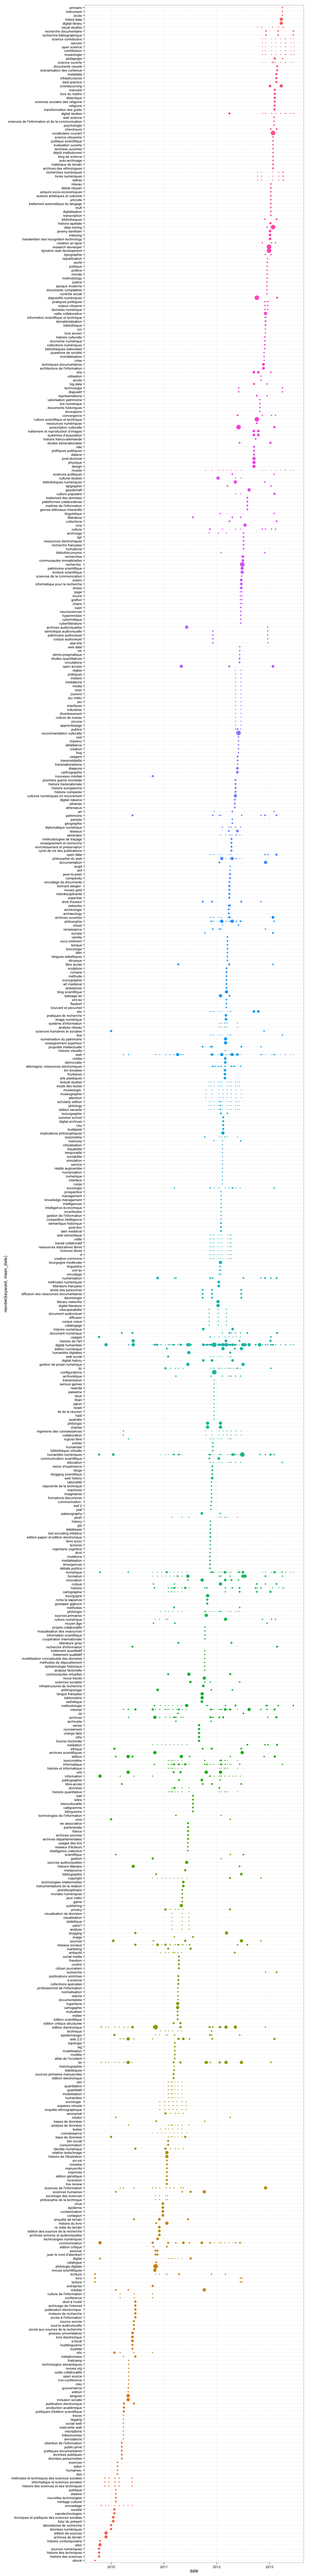
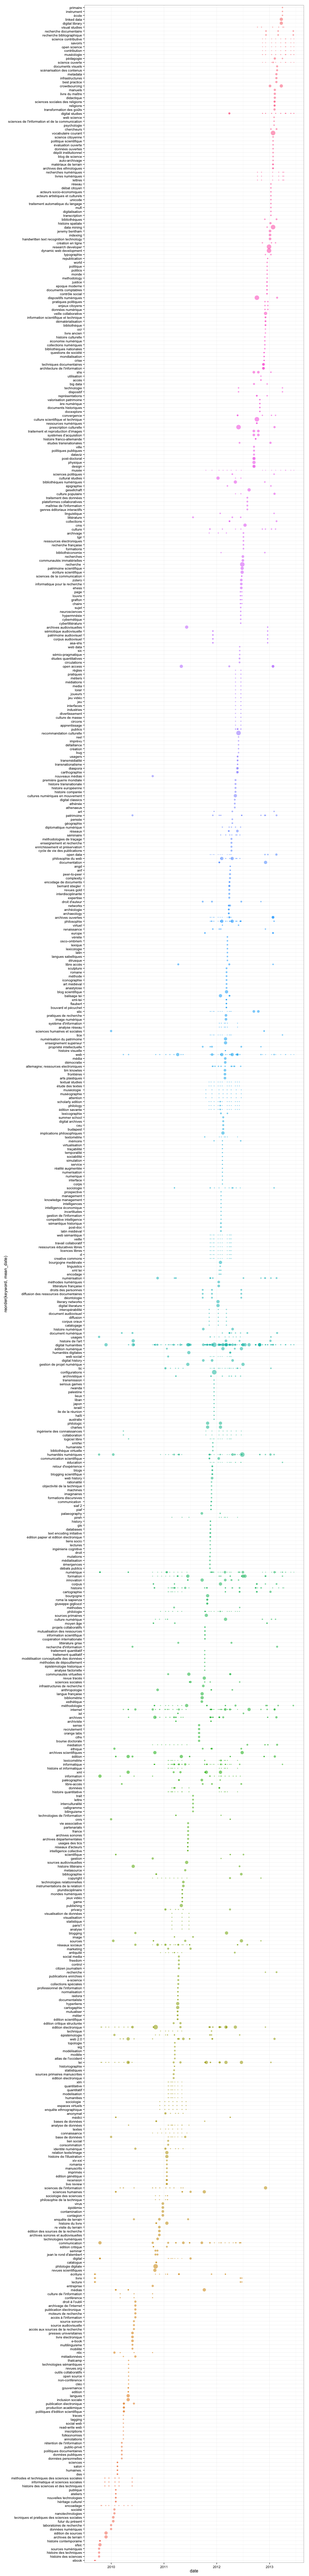
rewrite

Changed region(s): [[0.875, 0.0312, 0.9062, 0.0625], [0.8125, 0.1562, 0.8438, 0.1875], [0.7188, 0.4062, 0.75, 0.4375]]

diff --git a/_posts/notebook/2013-02-28-dh_keywords_analysis.md b/_posts/notebook/2013-02-28-dh_keywords_analysis.md
@@ -7,8 +7,6 @@ tags:
 
 layout: default
 ---
-dh.events : Analyse de mots clés
---------------------------------
 
 ## transformation des données de base
 
@@ -130,6 +128,8 @@ head(keywords, n = 20)
 ```
 
 
+### pondération des événements qui se répètent
+
 Que faire des mots-clés s'appliquant à des événements qui se répètent dans le temps. Nous proposons de les pondérer de la façon suivante :
 
 1. 1/(nombre de dates)
@@ -141,31 +141,52 @@ weights <- as.data.frame(sapply(keywords$event_id, function(e) {
     1/nrow(keywords[keywords$event_id == e, ])
 }))
 
+keywords.aggregate <- cbind(keywords, weights)
+
+colnames(keywords.aggregate)[4] <- c("weight")
+
+rm(weights)
+
+head(keywords.aggregate[, c("keyword", "weight")])
+```
+
+```
+##         keyword weight
+## 1 communication   1.00
+## 2 organisations   0.50
+## 3 communication   0.50
+## 4     éducation   1.00
+## 5     recherche   1.00
+## 6 communication   0.25
+```
+
+
+### calcul de la date moyenne
+
+
+```r
 mean_date <- as.data.frame(sapply(keywords$keyword, function(e) {
     mean(keywords[keywords$keyword == e, ]$date)
 }))
 
-keywords.aggregate <- cbind(keywords, weights)
 keywords.aggregate <- cbind(keywords.aggregate, mean_date)
 
-colnames(keywords.aggregate)[4] <- c("weight")
 colnames(keywords.aggregate)[5] <- c("mean_date")
 
-rm(mean_date, weights)
+rm(mean_date)
 
-head(keywords.aggregate)
+head(keywords.aggregate[, c("keyword", "mean_date")])
 ```
 
 ```
-##                    event_id       date       keyword weight mean_date
-## 1 http://calenda.org/197623 2004-10-15 communication   1.00     14926
-## 2 http://calenda.org/197736 2005-04-30 organisations   0.50     12903
-## 3 http://calenda.org/197736 2005-04-30 communication   0.50     14926
-## 4 http://calenda.org/198145 2007-05-10     éducation   1.00     15310
-## 5 http://calenda.org/198202 2007-10-15     recherche   1.00     15077
-## 6 http://calenda.org/198481 2008-09-09 communication   0.25     14926
+##         keyword mean_date
+## 1 communication     14926
+## 2 organisations     12903
+## 3 communication     14926
+## 4     éducation     15310
+## 5     recherche     15077
+## 6 communication     14926
 ```
-
 
 
 Cela permet de reconstituer un poid de 1 quand on fait la somme de tous les événements dans le temps.
@@ -183,7 +204,7 @@ t <- keywords.aggregate[keywords.aggregate$date > as.Date("2009-01-01") & keywor
     as.Date("2013-12-31"), ]
 
 ggplot(t) + aes(x = date, y = reorder(keyword, mean_date), size = weight, color = reorder(keyword, 
-    mean_date)) + geom_point() + theme(legend.position = "none")
+    mean_date), alpha = 0.7) + geom_point() + theme(legend.position = "none")
 ```
 
 ![plot of chunk distribution_overtime](figure/distribution_overtime.png) 
